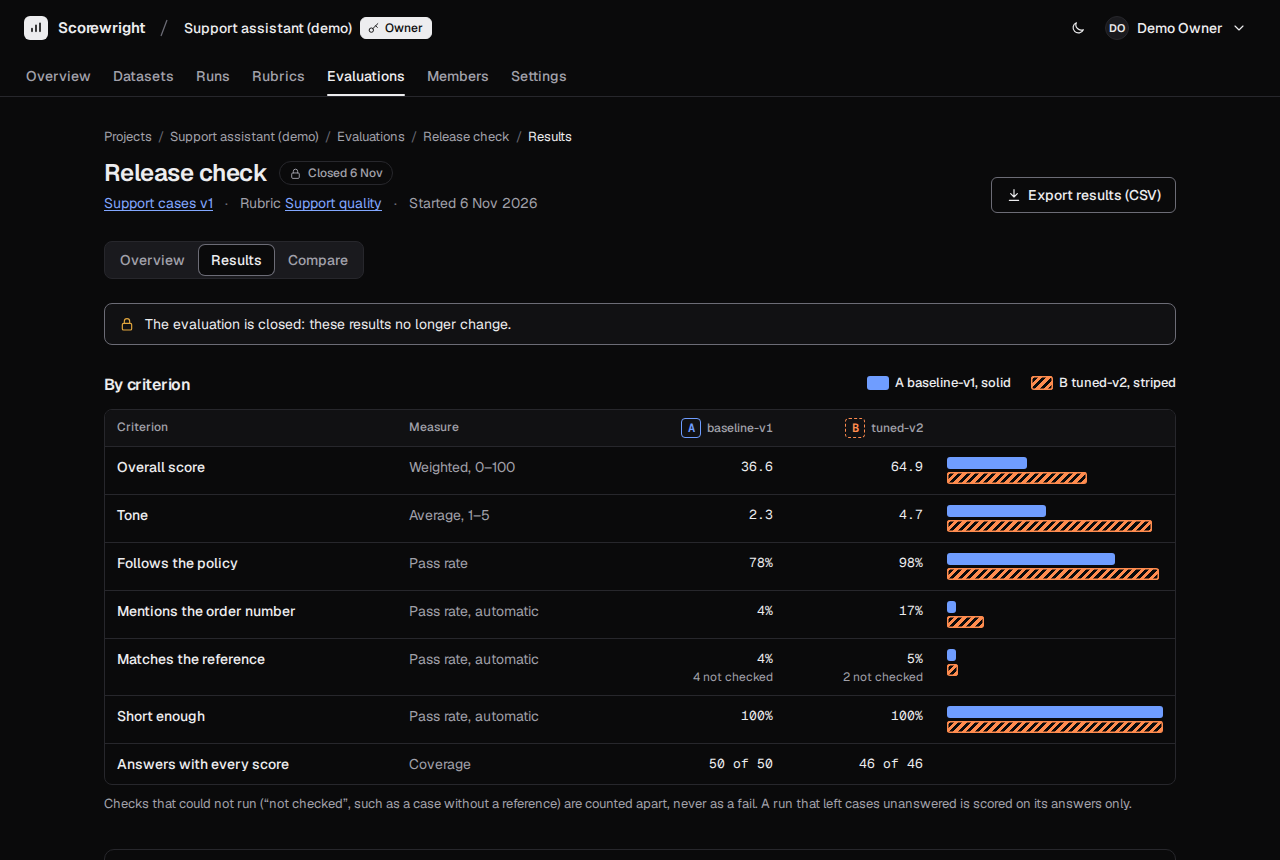
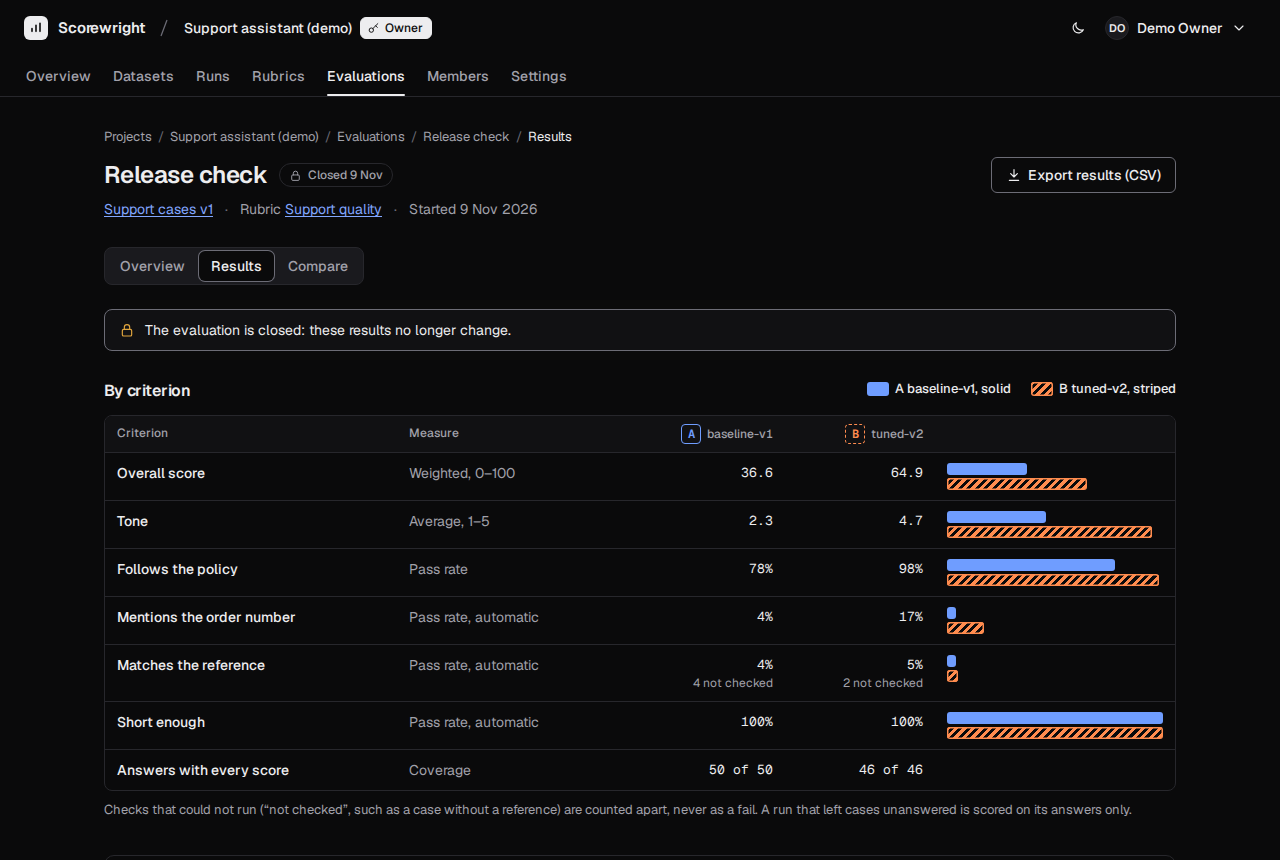
Fix four sentences of the guide, and make the README's screenshots again
- The guide: the policy rate in "The answer" is over the 46 cases both
  runs answered; "how much there is to do"; "A, B, C and so on";
  "Scorewright sends no e-mail".
- docs/screenshots: the four README images made again by ./e2e.sh
  screenshots, in the same run as the guide's, so the two the guide shows
  next to its own come from the same interface and date.

diff --git a/docs/guide.md b/docs/guide.md
@@ -46,7 +46,7 @@ guidance that says how to choose. The app scores the automatic checks, such as a
 criterion has a weight, for the overall score. Once an evaluation uses a rubric, it is locked.
 
 **Evaluation.** An evaluation applies a rubric to one to five runs of the same version. Each run gets a letter: A, B,
-C…. People score every answer, and the automatic checks run in the background. When the owner closes it, its scores
+C and so on. People score every answer, and the automatic checks run in the background. When the owner closes it, its scores
 never change again.
 
 **Blind mode and roles.** In blind mode, the people who score do not see which run wrote an answer, and the answers of
@@ -186,7 +186,7 @@ In **Evaluations**, choose **New evaluation**:
 - **Blind mode:** keep it on (it is on by default).
 
 The form warns that `tuned-v2` does not answer every case: for those 4 cases, the one answer can only be the
-baseline's. The foot of the form says what is to do: "96 answers to score · 2 manual criteria · 3 automatic".
+baseline's. The foot of the form says how much there is to do: "96 answers to score · 2 manual criteria · 3 automatic".
 
 ![New evaluation: the name Baseline vs tuned, the version Support cases v1, both runs ticked with their letters A and B, the rubric, Blind mode on with the warning about tuned-v2, and "96 answers to score · 2 manual criteria · 3 automatic"](guide/new-evaluation.png)
 
@@ -212,7 +212,7 @@ Scoring goes faster, and is fairer, with more than one person. In **Members**, u
 - **Role:** **Evaluator**.
 
 Choose **Invite**: "Demo Evaluator was added as an evaluator." Only people who already have an account can be added:
-they choose **Register** first. There is no e-mail.
+they choose **Register** first. Scorewright sends no e-mail.
 
 To see what the evaluator sees, sign in as `demo.evaluator@example.com` in a private window. The project's
 **Overview** lists the evaluation under **Your evaluations**, with **Start scoring** or **Continue scoring**. Its
@@ -340,8 +340,8 @@ The columns are in [docs/api.md](api.md#export).
 
 ## The answer
 
-Yes: `tuned-v2` is better. It is kinder on every tag, it keeps the rules on 98% of the cases where the baseline keeps
-them on 76%, and its answers are still short.
+Yes: `tuned-v2` is better. It is kinder on every tag. On the 46 cases both runs answered, it keeps the rules 98% of
+the time, against 76% for the baseline. And its answers are still short.
 
 It is not better everywhere. On `product-4`, it makes up a restock date. That is the next prompt change, and the next
 evaluation: import its answers as a new run of the same dataset version, such as `tuned-v3`, and score it with the
